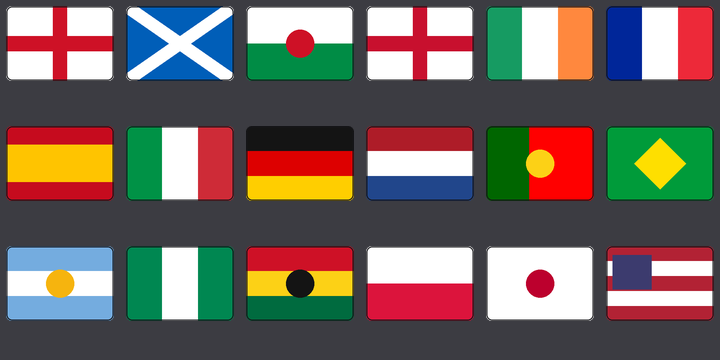
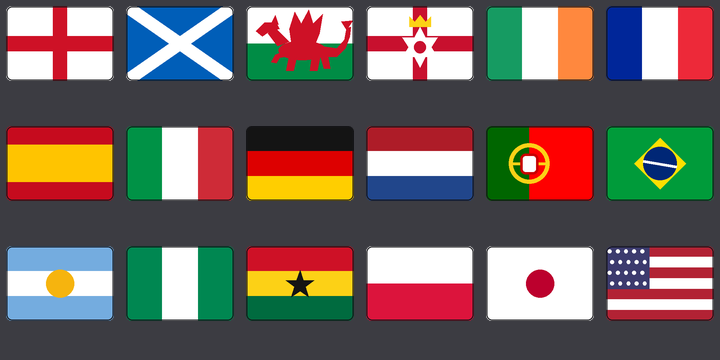
Flags: Wales gets its dragon, Northern Ireland stops being a second England (#18a)
The generated set copied the frame-drawable Nations data, so Northern
Ireland was England's cross, Wales was a red disc, Portugal's disc sat in
the middle of the red, the USA canton floated off the corner, Brazil had no
globe and Ghana no star. gen_flags.py now draws those emblems properly; the
six changed icons are re-uploaded and NationsTest checks every nation has an
icon id and no id is orphaned.

diff --git a/tools/gen_flags.py b/tools/gen_flags.py
@@ -11,10 +11,16 @@ one corner radius, one border, PNG with alpha.
 
 Writes assets/ui/flags/keyed/<code>.png (lowercase) and a contact_sheet.png.
 Upload with the same localhost-http + upload_image path as the league crests
-(see [[football-club-tycoon-league-crests]]); keep the id map in
-src/shared/FlagImages.luau (tools/write_flag_images.py writes it from the
-upload_image result).
+(serve assets/ui/flags/keyed on 127.0.0.1:8765, MCP upload_image the changed
+files) and copy the returned ids into src/shared/FlagImages.luau.
+
+The icons go further than Nations.luau's frame-drawable data where a flag
+would otherwise be wrong or ambiguous: Wales gets its dragon, Northern Ireland
+the Ulster banner's star, hand and crown (not a second England), Portugal its
+armillary sphere on the stripe line, Brazil its globe, Ghana a star and the
+USA a proper canton.
 """
+import math
 import os
 
 from PIL import Image, ImageDraw
@@ -35,22 +41,22 @@ SKY = (116, 172, 223)
 NATIONS = [
     dict(code="ENG", dir="h", colors=[WHITE], emblem="cross", emblemColor=RED),
     dict(code="SCO", dir="h", colors=[(0, 94, 184)], emblem="saltire", emblemColor=WHITE),
-    dict(code="WAL", dir="h", colors=[WHITE, GREEN], emblem="disc", emblemColor=RED),
-    dict(code="NIR", dir="h", colors=[WHITE], emblem="cross", emblemColor=(200, 16, 46)),
+    dict(code="WAL", dir="h", colors=[WHITE, GREEN], emblem="dragon", emblemColor=RED),
+    dict(code="NIR", dir="h", colors=[WHITE], emblem="ulster", emblemColor=(200, 16, 46)),
     dict(code="IRL", dir="v", colors=[(22, 155, 98), WHITE, (255, 136, 62)]),
     dict(code="FRA", dir="v", colors=[(0, 38, 153), WHITE, (237, 41, 57)]),
     dict(code="ESP", dir="h", colors=[(198, 11, 30), (255, 196, 0), (198, 11, 30)], sizes=[1, 2, 1]),
     dict(code="ITA", dir="v", colors=[(0, 146, 70), WHITE, (206, 43, 55)]),
     dict(code="GER", dir="h", colors=[BLACK, (221, 0, 0), (255, 206, 0)]),
     dict(code="NED", dir="h", colors=[(174, 28, 40), WHITE, (33, 70, 139)]),
-    dict(code="POR", dir="v", colors=[(0, 102, 0), (255, 0, 0)], sizes=[2, 3], emblem="disc", emblemColor=YELLOW),
-    dict(code="BRA", dir="h", colors=[(0, 155, 58)], emblem="diamond", emblemColor=(254, 223, 0)),
+    dict(code="POR", dir="v", colors=[(0, 102, 0), (255, 0, 0)], sizes=[2, 3], emblem="sphere", emblemColor=YELLOW),
+    dict(code="BRA", dir="h", colors=[(0, 155, 58)], emblem="globe", emblemColor=(254, 223, 0)),
     dict(code="ARG", dir="h", colors=[SKY, WHITE, SKY], emblem="disc", emblemColor=(246, 180, 14)),
     dict(code="NGA", dir="v", colors=[(0, 135, 81), WHITE, (0, 135, 81)]),
-    dict(code="GHA", dir="h", colors=[(206, 17, 38), YELLOW, (0, 107, 63)], emblem="disc", emblemColor=BLACK),
+    dict(code="GHA", dir="h", colors=[(206, 17, 38), YELLOW, (0, 107, 63)], emblem="star", emblemColor=BLACK),
     dict(code="POL", dir="h", colors=[WHITE, (220, 20, 60)]),
     dict(code="JPN", dir="h", colors=[WHITE], emblem="disc", emblemColor=(188, 0, 45)),
-    dict(code="USA", dir="h", colors=[(178, 34, 52), WHITE, (178, 34, 52), WHITE, (178, 34, 52)], emblem="canton", emblemColor=(60, 59, 110)),
+    dict(code="USA", dir="h", colors=[(178, 34, 52), WHITE] * 3 + [(178, 34, 52)], emblem="canton", emblemColor=(60, 59, 110)),
 ]
 
 
@@ -69,19 +75,84 @@ def stripes(draw, dir, colors, sizes):
         at += frac
 
 
-def emblem(draw, kind, color):
+def star_points(cx, cy, r_out, r_in, points, turn=-90):
+    pts = []
+    for i in range(points * 2):
+        r = r_out if i % 2 == 0 else r_in
+        a = math.radians(turn + i * 180 / points)
+        pts.append((cx + r * math.cos(a), cy + r * math.sin(a)))
+    return pts
+
+
+# A passant dragon, drawn in a 100 x 70 box (the flag's 10:7) facing left.
+# Chunky on purpose: at card size (~40 px wide) it has to read as a beast with
+# wings and a tail, not as detail.
+DRAGON = [
+    [(29, 36), (20, 24), (26, 18), (40, 32)],  # neck
+    [(9, 22), (17, 14), (28, 14), (31, 20), (22, 22), (15, 27)],  # head, jaw open
+    [(23, 15), (27, 7), (30, 16)],  # horn
+    [(42, 34), (40, 20), (45, 4), (51, 15), (58, 2), (62, 15), (71, 6), (68, 24), (64, 34)],  # wings
+    [(70, 36), (84, 38), (91, 30), (93, 19), (97, 18), (96, 27), (92, 38), (84, 46), (70, 46)],  # tail
+    [(93, 21), (88, 13), (99, 12)],  # tail tip
+    [(36, 40), (27, 44), (23, 51), (28, 52), (31, 47), (41, 45)],  # raised forepaw
+    [(40, 44), (37, 59), (44, 59), (47, 46)],  # standing foreleg
+    [(61, 44), (59, 59), (66, 59), (69, 44)],  # hind legs
+    [(68, 43), (72, 57), (78, 57), (75, 41)],
+]
+DRAGON_BODY = (52, 40, 22, 9)  # centre x, y, radius x, y
+
+
+
+def emblem(img, draw, kind, color):
     cx, cy = W / 2, H / 2
+    sx, sy = W / 100, H / 70
     if kind == "cross":
         draw.rectangle([0, cy - H * 0.1, W, cy + H * 0.1], fill=color)
         draw.rectangle([cx - W * 0.065, 0, cx + W * 0.065, H], fill=color)
+    elif kind == "ulster":
+        # St George's cross with the white star, red hand and crown on top
+        emblem(img, draw, "cross", color)
+        draw.polygon(star_points(cx, cy + H * 0.05, H * 0.27, H * 0.15, 6), fill=WHITE)
+        draw.ellipse([cx - H * 0.08, cy - H * 0.03, cx + H * 0.08, cy + H * 0.13], fill=color)
+        cw, top = W * 0.1, cy - H * 0.36
+        draw.polygon([(cx - cw, top + H * 0.14), (cx - cw, top), (cx - cw * 0.5, top + H * 0.07), (cx, top - H * 0.02),
+                      (cx + cw * 0.5, top + H * 0.07), (cx + cw, top), (cx + cw, top + H * 0.14)], fill=YELLOW)
+    elif kind == "dragon":
+        dy = H * 0.02
+        for poly in DRAGON:
+            draw.polygon([(x * sx, y * sy + dy) for x, y in poly], fill=color)
+        bx, by, rx, ry = DRAGON_BODY
+        draw.ellipse([(bx - rx) * sx, (by - ry) * sy + dy, (bx + rx) * sx, (by + ry) * sy + dy], fill=color)
     elif kind == "disc":
         r = W * 0.13
         draw.ellipse([cx - r, cy - r, cx + r, cy + r], fill=color)
+    elif kind == "sphere":
+        # the armillary sphere sits on the green/red line, a shield in front
+        x, r = W * 0.4, H * 0.27
+        draw.ellipse([x - r, cy - r, x + r, cy + r], outline=color, width=max(int(H * 0.06), 3))
+        draw.line([(x - r, cy), (x + r, cy)], fill=color, width=max(int(H * 0.04), 2))
+        sw = H * 0.12
+        draw.rounded_rectangle([x - sw, cy - sw * 1.1, x + sw, cy + sw * 1.2], radius=sw * 0.6, fill=WHITE, outline=(200, 0, 0), width=max(int(H * 0.035), 2))
     elif kind == "diamond":
         r = W * 0.24
         draw.polygon([(cx, cy - r), (cx + r, cy), (cx, cy + r), (cx - r, cy)], fill=color)
+    elif kind == "globe":
+        emblem(img, draw, "diamond", color)
+        r = H * 0.22
+        draw.ellipse([cx - r, cy - r, cx + r, cy + r], fill=(0, 39, 118))
+        draw.line([(cx - r, cy - r * 0.15), (cx + r, cy + r * 0.2)], fill=WHITE, width=max(int(H * 0.04), 2))
+    elif kind == "star":
+        draw.polygon(star_points(cx, cy + H * 0.02, H * 0.2, H * 0.08, 5), fill=color)
     elif kind == "canton":
-        draw.rectangle([W * 0.06, H * 0.12, W * 0.42, H * 0.58], fill=color)
+        # blue canton over the top four of seven stripes, rows of white stars
+        cw, ch = W * 0.4, H * 4 / 7
+        draw.rectangle([0, 0, cw, ch], fill=color)
+        for row in range(4):
+            for col in range(5):
+                x = cw * (col + 0.5 + (0.25 if row % 2 else -0.05)) / 5.3
+                y = ch * (row + 0.5) / 4
+                d = H * 0.025
+                draw.ellipse([x - d, y - d, x + d, y + d], fill=WHITE)
 
 
 def saltire(img, color):
@@ -105,7 +176,7 @@ def draw_flag(spec):
     if kind == "saltire":
         saltire(img, spec["emblemColor"])
     elif kind:
-        emblem(draw, kind, spec["emblemColor"])
+        emblem(img, draw, kind, spec["emblemColor"])
 
     # rounded corners + border, so every icon reads as one consistent set
     mask = Image.new("L", (W, H), 0)
